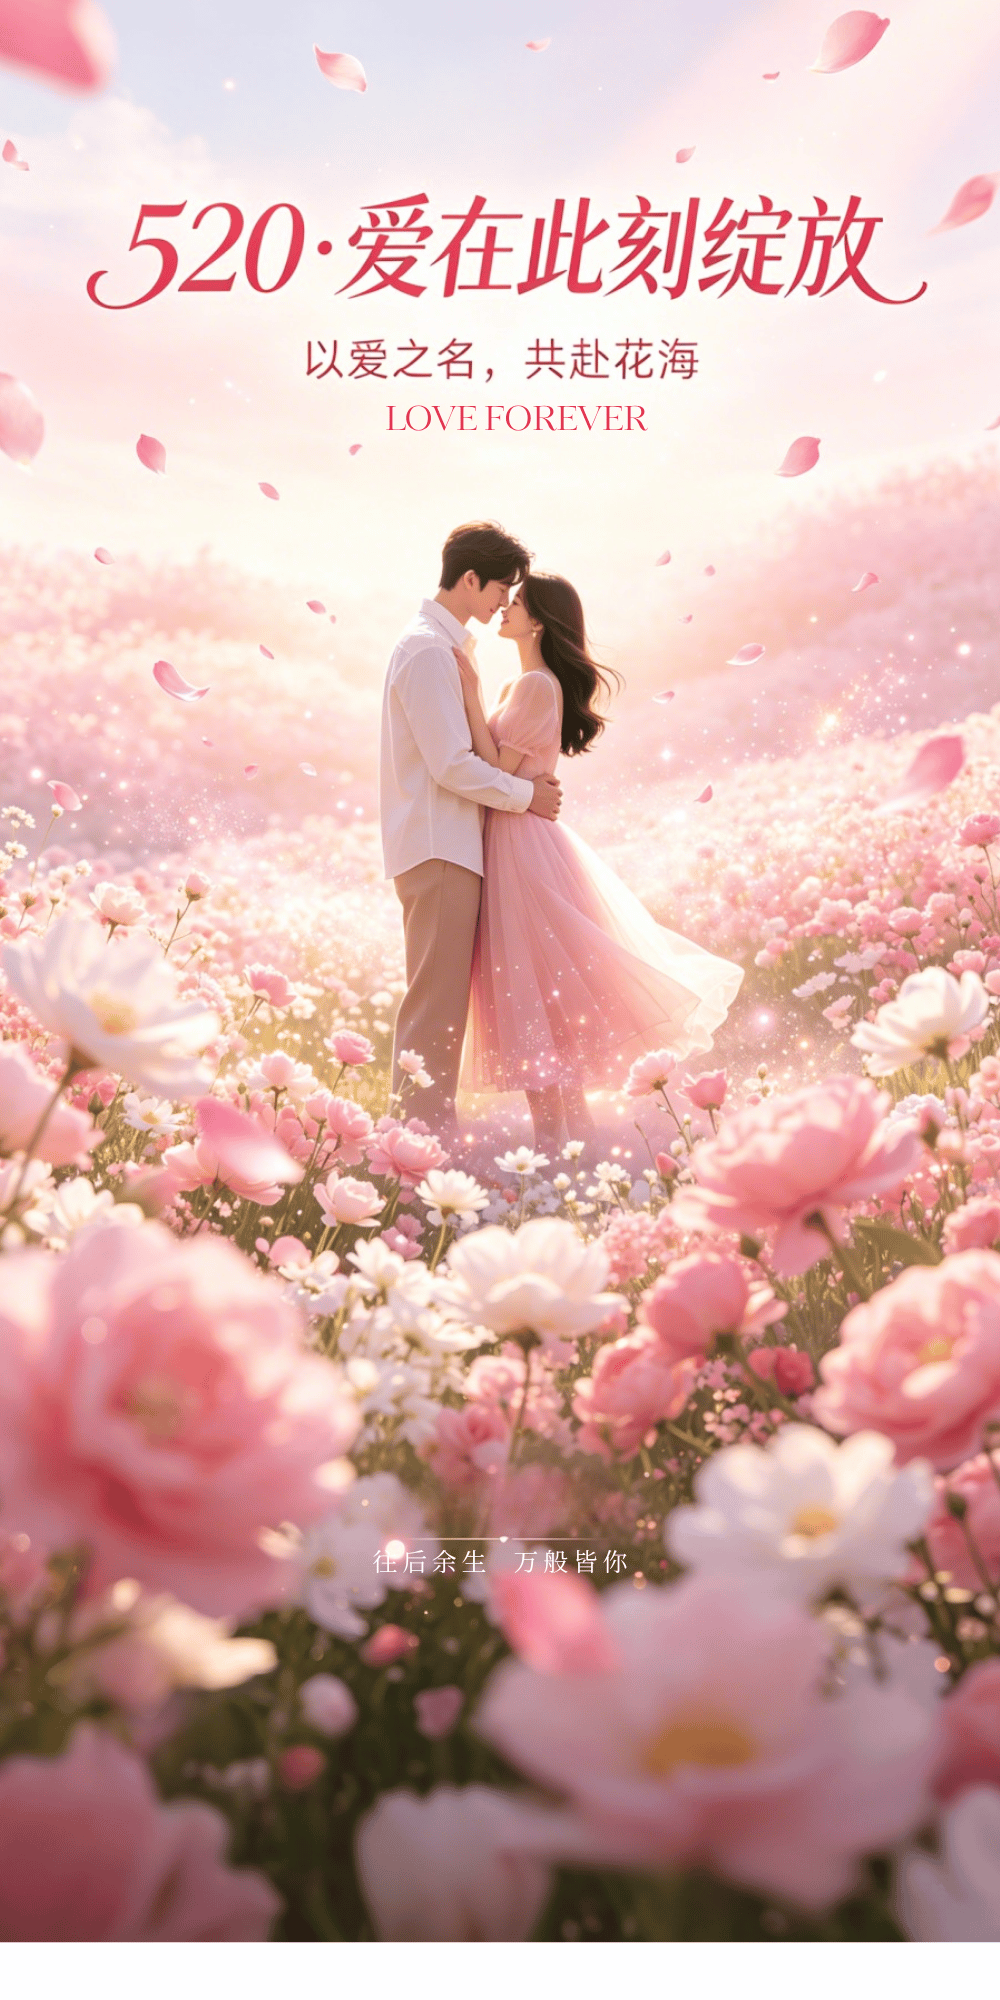
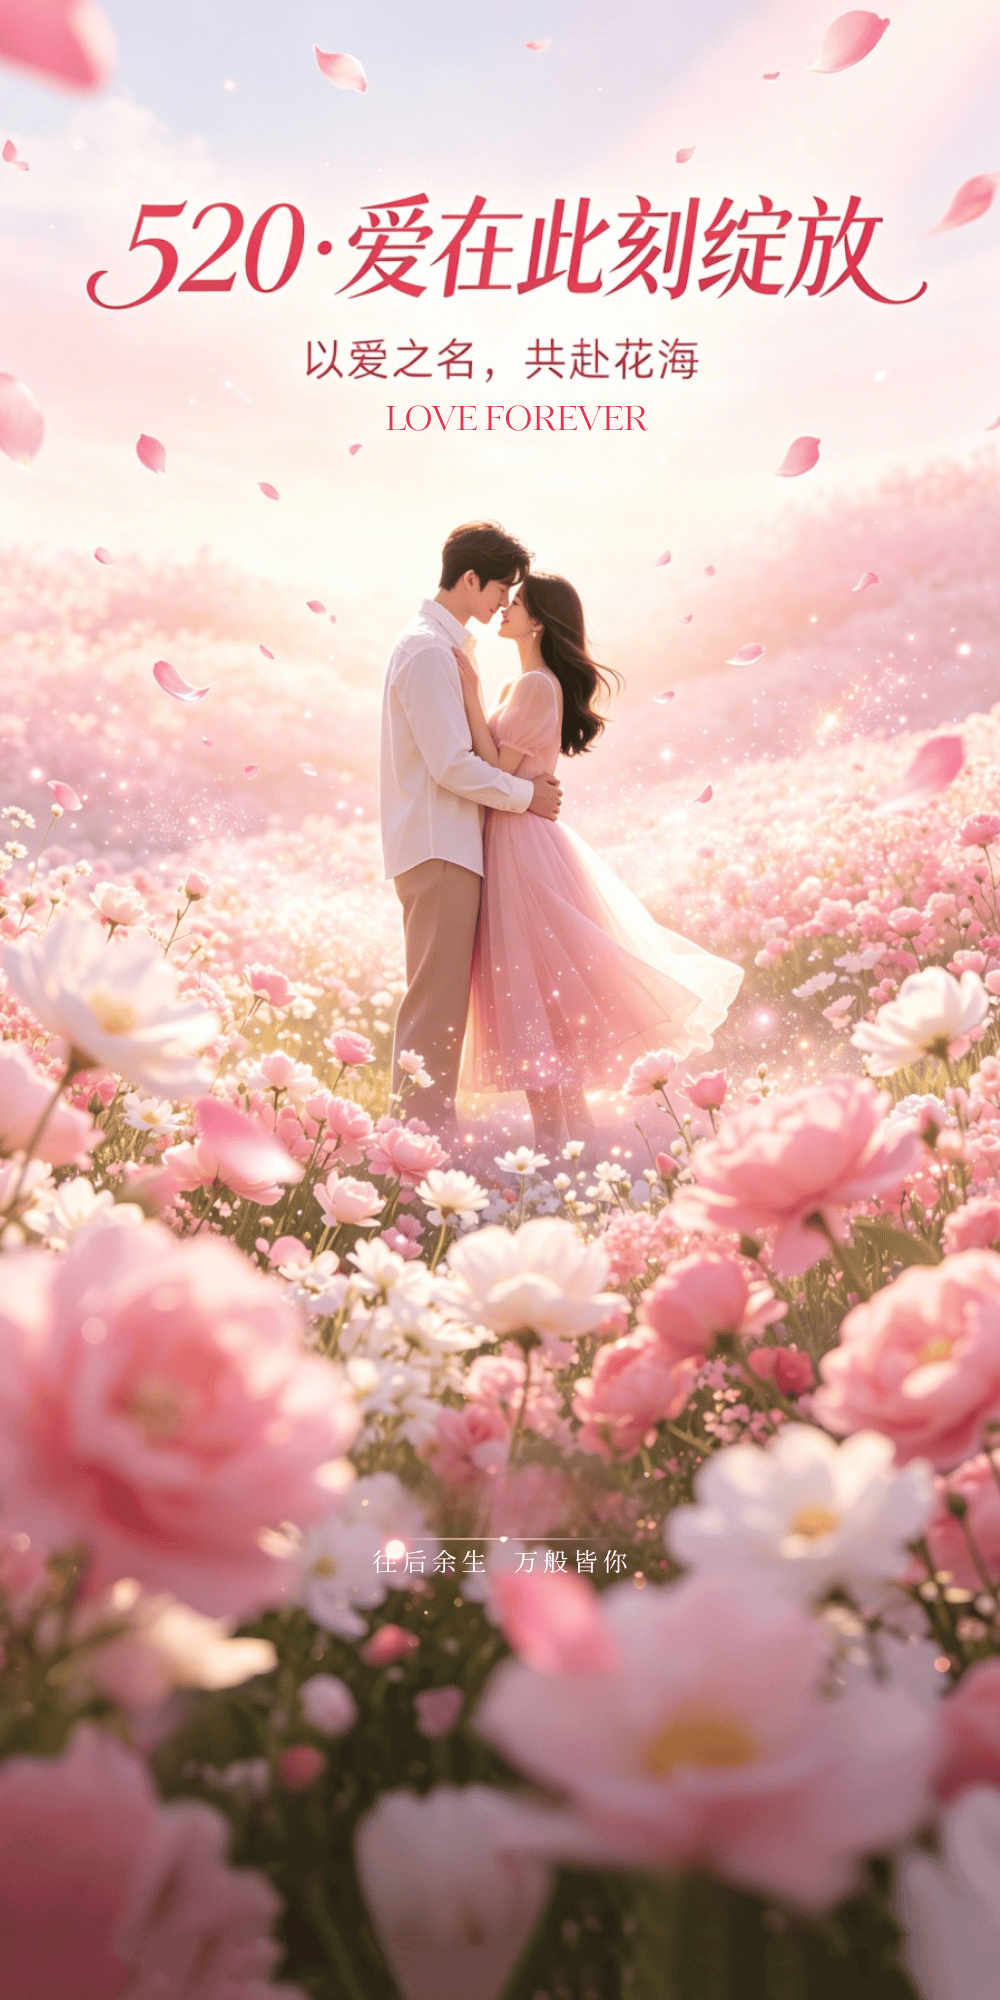
42

Changed region(s): [[0.0, 0.961, 1.0, 1.0]]

diff --git a/postdiy/editor-script.js b/postdiy/editor-script.js
@@ -12898,7 +12898,7 @@ window.textTemplateManager = {
       rotation: 0,
       color: '#000000',
       fontFamily: window.fontManager ? window.fontManager.useFont('Microsoft YaHei') : 'sans-serif',
-      fontSize: 12,
+      fontSize: 10,
       writingMode: 'vertical-rl',
       textAlign: 'top',
       width: 80,